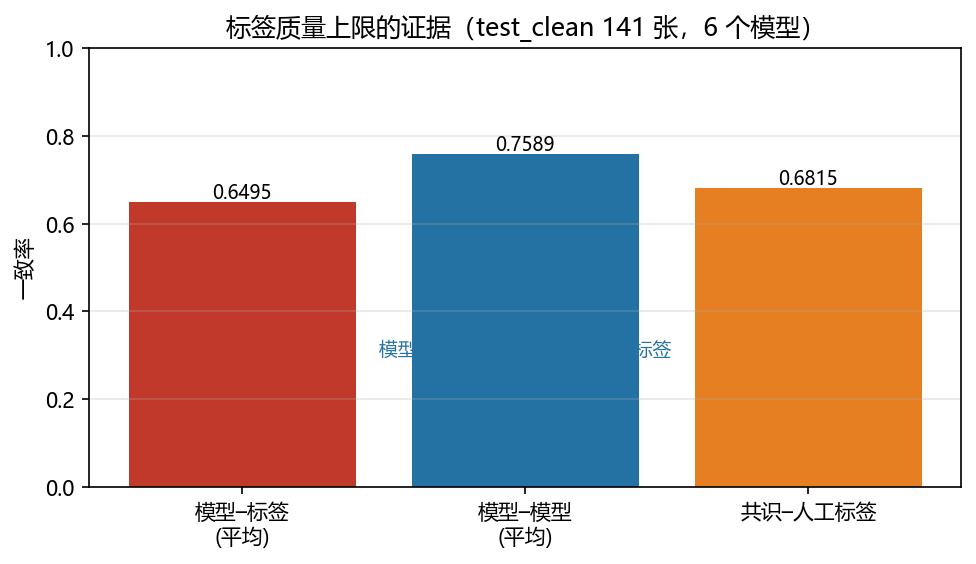
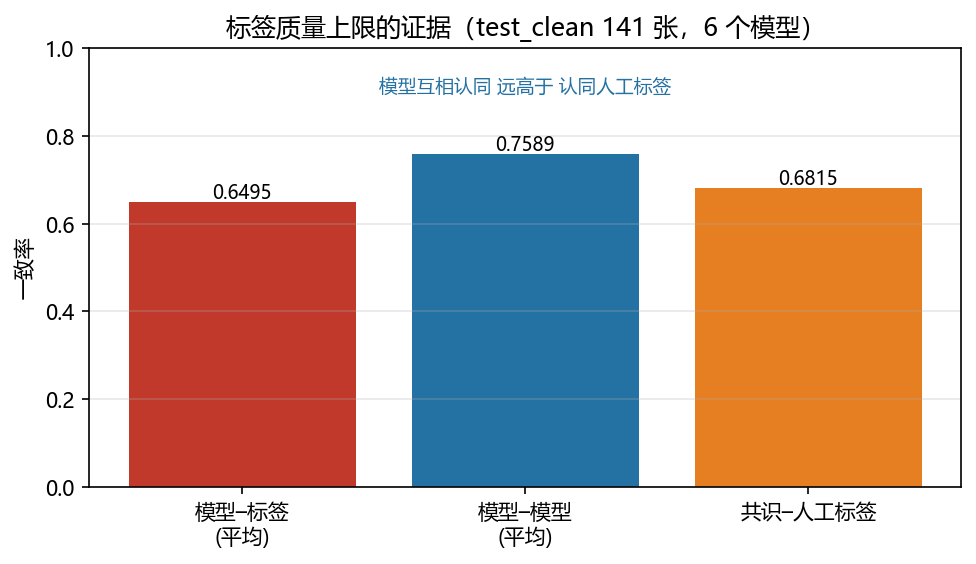
Two figures had text colliding with their own bars
Figure 3 (phase-C comparison). The ±3 sigma marker was an ax.text at x=0.1, which
landed on top of the first bar's value label and beside the error bar's cap, so
"0.6312" and "±3σ_seed" printed over each other -- the "strange overlapping
symbol at the top of our bar". It is now a legend entry. The value label for bar
0 also sat inside the error bar's vertical span, so the line ran through the
digits; that one label now clears the cap. Labels are shortened
("MSSACT-Net light\n(自研, 6.10M)" became "MSSACT-Net\n自研 6.10M") and the canvas
widened to 10.6 x 4.2, because nine two-line tick labels were colliding along the
axis, and the value labels drop to 6.5 pt.

Figure 5 (agreement). The blue caption "模型互相认同 远高于 认同人工标签" was drawn
at (x=1.0, y=0.30), which is inside the middle bar, and in a colour close to the
bar's, so only the first and last words showed at its edges -- exactly the
"obscured blue 模型/标签 text" in the screenshot. The bars reach 0.65/0.76/0.68,
so y=0.90 is clear; the caption moved there.

Both verified by rendering the PNGs and reading them, not by trusting the code.

Changed region(s): [[0.3689, 0.1206, 0.707, 0.1809], [0.6455, 0.6028, 0.707, 0.633], [0.3689, 0.6028, 0.4303, 0.633]]

diff --git a/viz/make_report_figures.py b/viz/make_report_figures.py
@@ -143,9 +143,11 @@ def fig_learning_curves():
 def fig_comparison_bars():
     B = F["stage_C_1768_final"].get("baselines", {})
     M = F["stage_C_1768_final"].get("main", {})
-    order = [("full_all_v2", "MSSACT-Net light\n(自研, 6.10M)", C_OURS),
-             ("nd_deeplab_scr", "DeepLabV3+\n从零 (39.69M)", C_SCR),
-             ("nd_deeplab", "DeepLabV3+\n预训练 (旁证)", C_PRE),
+    # 标签刻意缩短并加宽画布: 原标签(如 "MSSACT-Net light\n(自研, 6.10M)")在 9 根柱下
+    # 会与相邻标签在横轴上互相压字(用户截图已指出)。
+    order = [("full_all_v2", "MSSACT-Net\n自研 6.10M", C_OURS),
+             ("nd_deeplab_scr", "DeepLabV3+\n从零 39.69M", C_SCR),
+             ("nd_deeplab", "DeepLabV3+\n预训练 39.69M", C_PRE),
              ("nd_fpn_seg", "FPN-Seg\n27.20M", C_OTH), ("nd_fcn", "FCN\n23.78M", C_OTH),
              ("nd_unet", "U-Net\n2.45M", C_OTH), ("nd_swin_unet", "Swin-Unet\n32.67M", C_OTH),
              ("nd_pspnet", "PSPNet\n13.60M", C_OTH), ("nd_segformer", "SegFormer\n1.23M", C_OTH)]
@@ -154,15 +156,22 @@ def fig_comparison_bars():
         r = M.get(t) or B.get(t)
         if not r: continue
         xs.append(lab); ys.append(r["kappa"]); cs.append(c); ls.append(t)
-    fig, ax = plt.subplots(figsize=(9, 4))
+    fig, ax = plt.subplots(figsize=(10.6, 4.2))     # 加宽: 9 根柱 + 两行标签需要横向空间
     ax.bar(range(len(xs)), ys, color=cs)
     ax.axhline(M.get("full_all_v2", {}).get("kappa", 0), ls="--", c=C_OURS, lw=1)
-    ax.errorbar([0], [ys[0]], yerr=[3 * SIGMA], fmt="none", ecolor="k", capsize=4)
-    ax.text(0.1, ys[0] + 3 * SIGMA + .004, "±3σ_seed", fontsize=8)
+    # ±3σ_seed 用**图例**表示而不是贴一行文字: 原来 ax.text 放在 x=0.1 处,
+    # 与第 0 根柱的数值标签("0.6312")互相压字, 且误差棒顶帽也挤在一起。
+    ax.errorbar([0], [ys[0]], yerr=[3 * SIGMA], fmt="none", ecolor="k", capsize=4,
+                label=f"±3σ_seed（σ={SIGMA:.4f}）")
+    # 第 0 根柱同时带误差棒, 其竖线会穿过贴在柱顶的数值标签 —— 把它移到误差棒顶帽之上;
+    # 其余柱没有误差棒, 维持柱顶。用户截图里"自研柱顶的奇怪符号"就是这条竖线。
+    _cap_top = ys[0] + 3 * SIGMA
     for i, v in enumerate(ys):
-        ax.text(i, v + .003, f"{v:.4f}", ha="center", fontsize=7.5)
-    ax.set_xticks(range(len(xs))); ax.set_xticklabels(xs, fontsize=7.5)
-    ax.set_ylabel("验证集 Kappa"); ax.set_ylim(0, max(ys) * 1.18)
+        _y = (_cap_top + .006) if i == 0 else (v + .004)
+        ax.text(i, _y, f"{v:.4f}", ha="center", fontsize=6.5)
+    ax.set_xticks(range(len(xs))); ax.set_xticklabels(xs, fontsize=7)
+    ax.set_ylabel("验证集 Kappa"); ax.set_ylim(0, max(ys) * 1.22)
+    ax.legend(fontsize=7, loc="upper right", framealpha=.9)
     ax.set_title("阶段 C 对比实验（同协议；从零训练的公平对比）")
     ax.grid(axis="y", alpha=.3)
     save("fig_comparison_bars.png")
@@ -339,7 +348,11 @@ def fig_agreement():
         ax.text(i, v + .008, f"{v:.4f}", ha="center", fontsize=9)
     ax.set_ylim(0, 1); ax.set_ylabel("一致率"); ax.grid(axis="y", alpha=.3)
     ax.set_title("标签质量上限的证据（test_clean 141 张，6 个模型）")
-    ax.text(1.0, 0.30, "模型互相认同 远高于 认同人工标签", ha="center", fontsize=9, color="#2471a3")
+    # 原先把这句注释放在 (x=1.0, y=0.30) —— 正好落在中间那根柱体内部,
+    # 文字颜色又与柱色相近, 于是被柱体遮住只露出两端的残字(用户截图即此)。
+    # 柱高为 0.65/0.76/0.68, 故 y≈0.90 一带是空白区, 移到这里。
+    ax.text(1.0, 0.90, "模型互相认同 远高于 认同人工标签", ha="center", fontsize=9,
+            color="#2471a3")
     save("fig_agreement.png")
 
 
